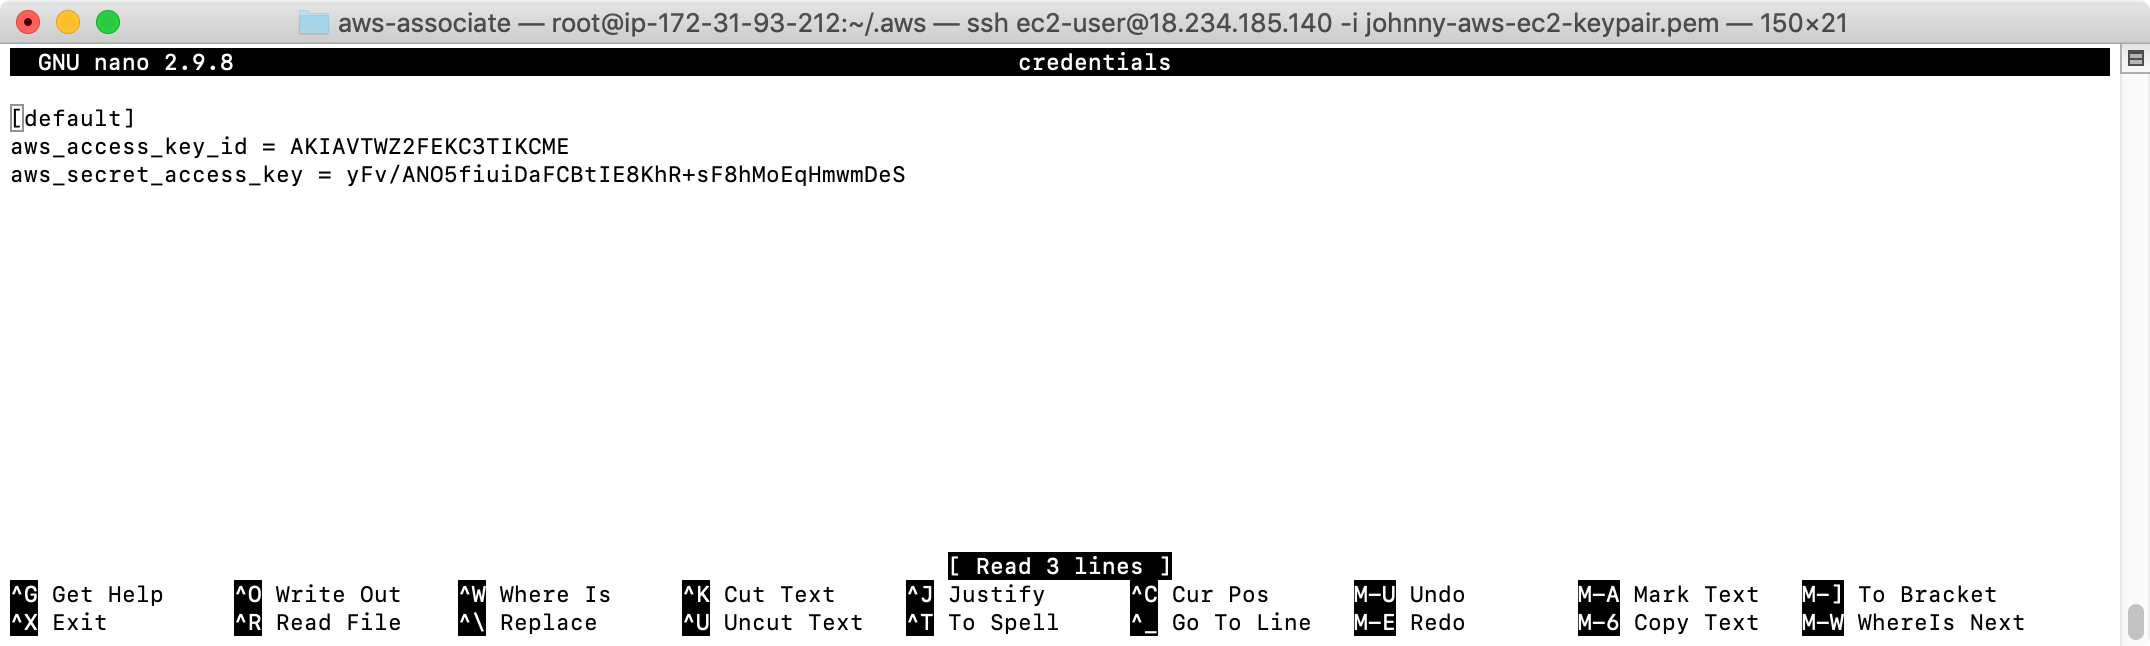
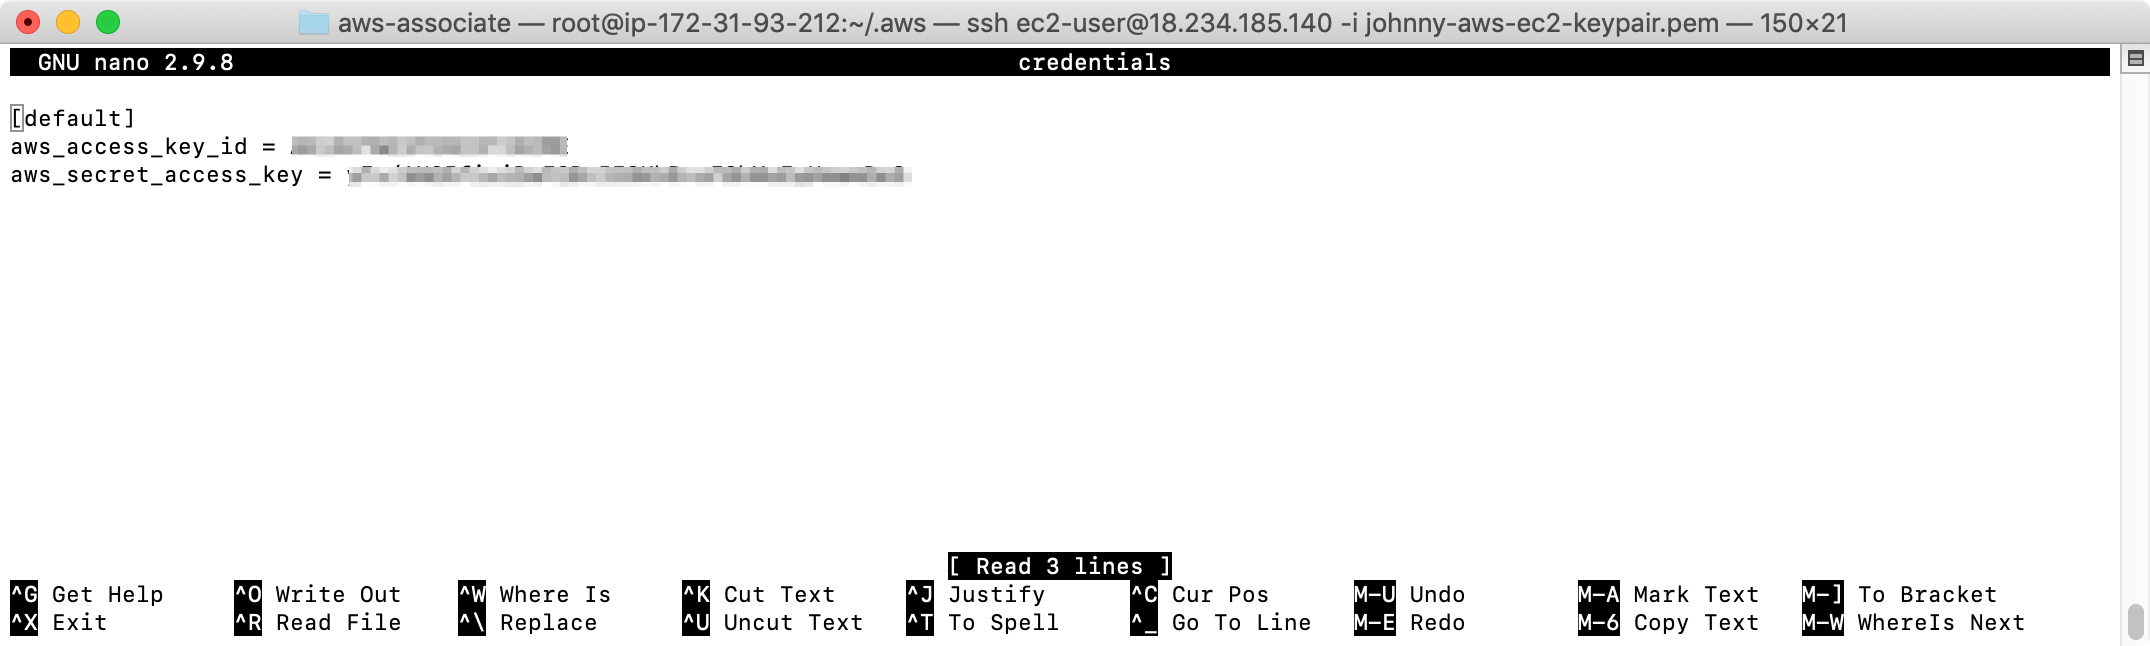
remove password

Changed region(s): [[0.1247, 0.1858, 0.4363, 0.3096]]

diff --git a/_note/notes/aws-certified-solutions-architect-associate.md b/_note/notes/aws-certified-solutions-architect-associate.md
@@ -17,6 +17,9 @@ draft: true
 * AWS Sign In: https://signin.aws.amazon.com
 * [Amazon S3 FAQs](https://aws.amazon.com/s3/faqs/)
 * [Amazon EC2 FAQs](https://aws.amazon.com/ec2/faqs/)
+* [AWS Whitepapers & Guides](https://aws.amazon.com/whitepapers)
+* [SAA-C01 Exam Guide](https://d1.awsstatic.com/training-and-certification/docs-sa-assoc/AWS_Certified_Solutions_Architect_Associate-Exam_Guide_EN_1.8.pdf)
+* [Sample Questions](https://d1.awsstatic.com/training-and-certification/docs/AWS_Certified_Solutions_Architect_Associate_Sample_Questions.pdf)
 
 ### 1.2 The Exam Blue Print
 Home page of CSAA on AWS: https://aws.amazon.com/certification/certified-solutions-architect-associate/
@@ -492,15 +495,11 @@ Use `aws s3 ls` to list all existing s3 buckets, error occurs.
 Unable to locate credentials. You can configure credentials by running "aws configure".
 [root@ip-172-31-93-212 ec2-user]#
 ```
-Create a new user and download the secure csv which contains id/keys as follows.
-* Access key ID: AKIAVTWZ2FEKC3TIKCME
-* Secret access key: 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
-
-Use `aws configure` to setup configration.
+Create a new user and download the secure csv which contains id/keys. Use them with `aws configure` to setup configration.
 ```raw
 [root@ip-172-31-93-212 ec2-user]# aws configure
-AWS Access Key ID [None]: AKIAVTWZ2FEKC3TIKCME
-AWS Secret Access Key [None]: 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
+AWS Access Key ID [None]: ******************
+AWS Secret Access Key [None]: ***************************************
 Default region name [None]: us-east-1
 Default output format [None]:
 [root@ip-172-31-93-212 ec2-user]#
@@ -857,6 +856,7 @@ Redshift exam tips.
 ![image](/public/images/note/9160/5-6-redshift-exam-tips-2.png)
 ### 5.7 Aurora
 ![image](/public/images/note/9160/5-7-aurora-1.png)
+![image](/public/images/note/9160/5-7-aurora-2.png)
 ### 5.8 Elasticache
 ### 5.9 Databases Summary
 ### 5.10 Databases On AWS Quiz
